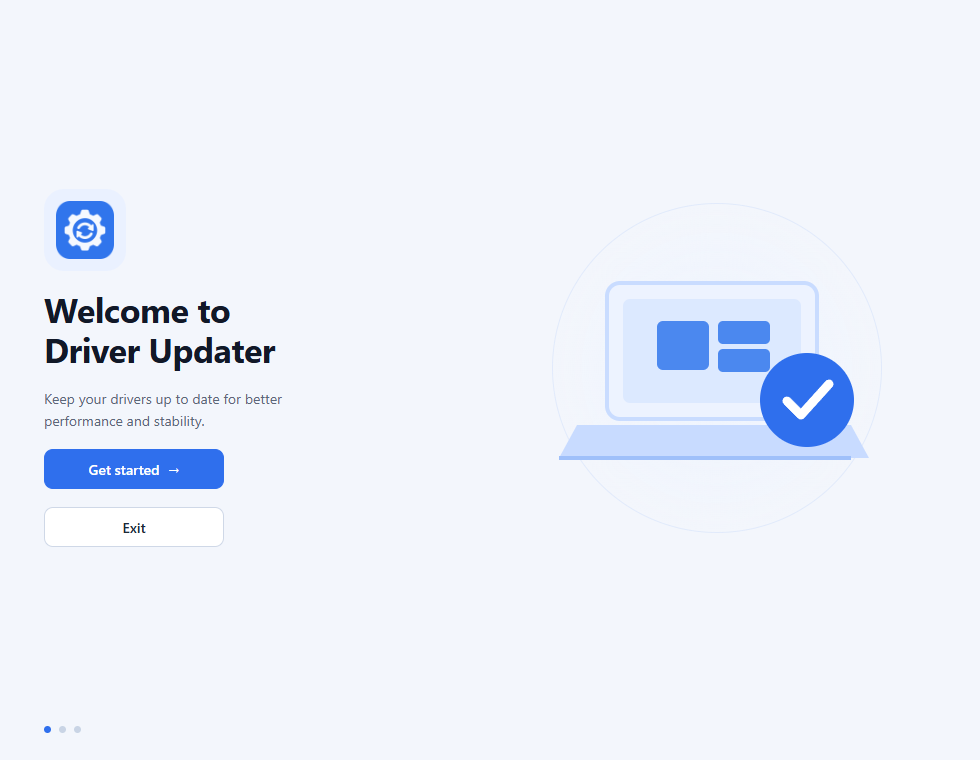
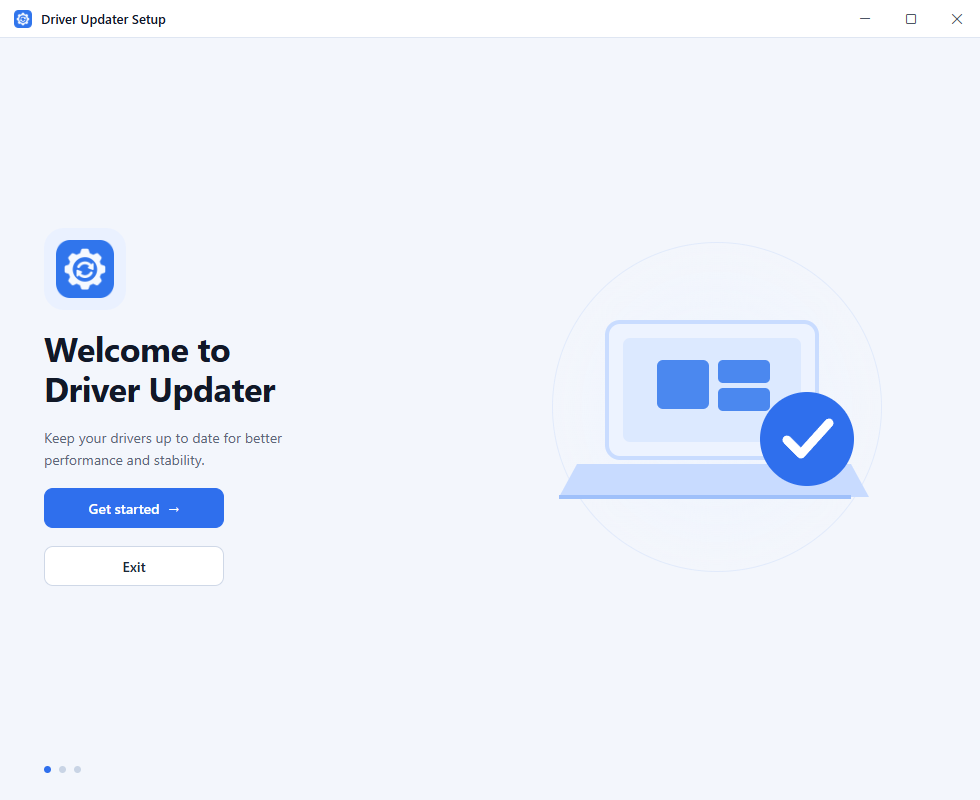
fix(chrome): use standard caption glyphs on matching surfaces
Replace hand-drawn window controls with Segoe Fluent/MDL2 caption glyphs and keep the setup titlebar on the same white surface as its content.

diff --git a/src/components/TitleBar.tsx b/src/components/TitleBar.tsx
@@ -2,7 +2,6 @@ import { useCallback, useEffect, useState } from 'react';
 import logo from '../assets/branding/logo.png';
 import { isTauriRuntime } from '../ipc/backend';
 import { useApp } from '../store/app';
-import { IconClose, IconMaximize, IconMinimize } from './icons';
 
 interface WindowApi {
     minimize: () => Promise<void>;
@@ -96,7 +95,9 @@ export function TitleBar() {
                         void api?.minimize().catch(() => undefined);
                     }}
                 >
-                    <IconMinimize size={13} strokeWidth={1.6} />
+                    <span className="titlebar-glyph" aria-hidden="true">
+                        {'\uE921'}
+                    </span>
                 </button>
                 <button
                     type="button"
@@ -110,7 +111,9 @@ export function TitleBar() {
                             .catch(() => undefined);
                     }}
                 >
-                    <IconMaximize size={12} strokeWidth={1.6} />
+                    <span className="titlebar-glyph" aria-hidden="true">
+                        {maximized ? '\uE923' : '\uE922'}
+                    </span>
                 </button>
                 <button
                     type="button"
@@ -119,7 +122,9 @@ export function TitleBar() {
                     aria-label={t('titlebar.close')}
                     onClick={() => void api?.close().catch(() => undefined)}
                 >
-                    <IconClose size={13} strokeWidth={1.6} />
+                    <span className="titlebar-glyph" aria-hidden="true">
+                        {'\uE8BB'}
+                    </span>
                 </button>
             </div>
         </header>

diff --git a/installer/ui/styles.css b/installer/ui/styles.css
@@ -42,6 +42,57 @@ button {
     background: var(--background);
 }
 
+.titlebar {
+    display: flex;
+    align-items: center;
+    justify-content: space-between;
+    height: 38px;
+    flex: 0 0 38px;
+    padding-left: 14px;
+    background: var(--surface);
+    border-bottom: 1px solid var(--border);
+    user-select: none;
+}
+
+.titlebar-brand {
+    display: flex;
+    align-items: center;
+    gap: 9px;
+    font-size: 13px;
+    font-weight: 600;
+}
+
+.titlebar-brand img {
+    width: 18px;
+    height: 18px;
+    object-fit: contain;
+}
+
+.window-controls {
+    display: flex;
+    height: 100%;
+}
+
+.window-controls button {
+    width: 46px;
+    height: 100%;
+    border: 0;
+    background: transparent;
+    color: #4b5563;
+    font-family: 'Segoe Fluent Icons', 'Segoe MDL2 Assets', sans-serif;
+    font-size: 10px;
+    font-weight: 400;
+}
+
+.window-controls button:hover {
+    background: #eef2f8;
+}
+
+.window-controls button[data-action='close']:hover {
+    background: #e81123;
+    color: #fff;
+}
+
 .wizard {
     position: relative;
     flex: 1;

diff --git a/installer/ui/index.html b/installer/ui/index.html
@@ -8,6 +8,18 @@
     </head>
     <body>
         <div class="setup-window">
+            <header class="titlebar" data-tauri-drag-region>
+                <div class="titlebar-brand" data-tauri-drag-region>
+                    <img src="assets/logo.png" alt="" />
+                    <span>Driver Updater Setup</span>
+                </div>
+                <div class="window-controls">
+                    <button type="button" aria-label="Minimize" data-action="minimize">&#xE921;</button>
+                    <button type="button" aria-label="Maximize" data-action="maximize">&#xE922;</button>
+                    <button type="button" aria-label="Close" data-action="close">&#xE8BB;</button>
+                </div>
+            </header>
+
             <main class="wizard">
                 <section class="screen is-active" data-screen="welcome">
                     <div class="welcome-layout">

diff --git a/installer/ui/app.js b/installer/ui/app.js
@@ -93,6 +93,14 @@ document.addEventListener('click', async (event) => {
         window.close();
         return;
     }
+    if (target.dataset.action === 'minimize') {
+        if (invoke) await invoke('minimize_setup');
+        return;
+    }
+    if (target.dataset.action === 'maximize') {
+        if (invoke) await invoke('toggle_maximize');
+        return;
+    }
     if (target.dataset.next) {
         showScreen(target.dataset.next);
         return;

diff --git a/src/styles/base.css b/src/styles/base.css
@@ -262,6 +262,13 @@ a {
     padding: 0;
 }
 
+.titlebar-glyph {
+    font-family: 'Segoe Fluent Icons', 'Segoe MDL2 Assets', sans-serif;
+    font-size: 10px;
+    font-weight: 400;
+    line-height: 1;
+}
+
 .titlebar-btn {
     width: 44px;
     height: 38px;

diff --git a/installer/src-tauri/src/main.rs b/installer/src-tauri/src/main.rs
@@ -3,7 +3,7 @@
 use serde::{Deserialize, Serialize};
 use std::path::{Path, PathBuf};
 use std::process::Command;
-use tauri::{AppHandle, Emitter, Manager};
+use tauri::{AppHandle, Emitter, Manager, Window};
 
 #[derive(Debug, Deserialize)]
 #[serde(rename_all = "camelCase")]
@@ -18,6 +18,25 @@ struct InstallRequest {
 struct InstallProgress {
     percent: u32,
     stage: String,
+}
+
+#[tauri::command]
+fn minimize_setup(window: Window) {
+    let _ = window.minimize();
+}
+
+#[tauri::command]
+fn toggle_maximize(window: Window) {
+    let _ = if window.is_maximized().unwrap_or(false) {
+        window.unmaximize()
+    } else {
+        window.maximize()
+    };
+}
+
+#[tauri::command]
+fn close_setup(window: Window) {
+    let _ = window.close();
 }
 
 #[tauri::command]
@@ -186,6 +205,9 @@ fn write_first_run(request: &InstallRequest) -> Result<(), String> {
 fn main() {
     tauri::Builder::default()
         .invoke_handler(tauri::generate_handler![
+            minimize_setup,
+            toggle_maximize,
+            close_setup,
             choose_directory,
             install,
             finish_setup
